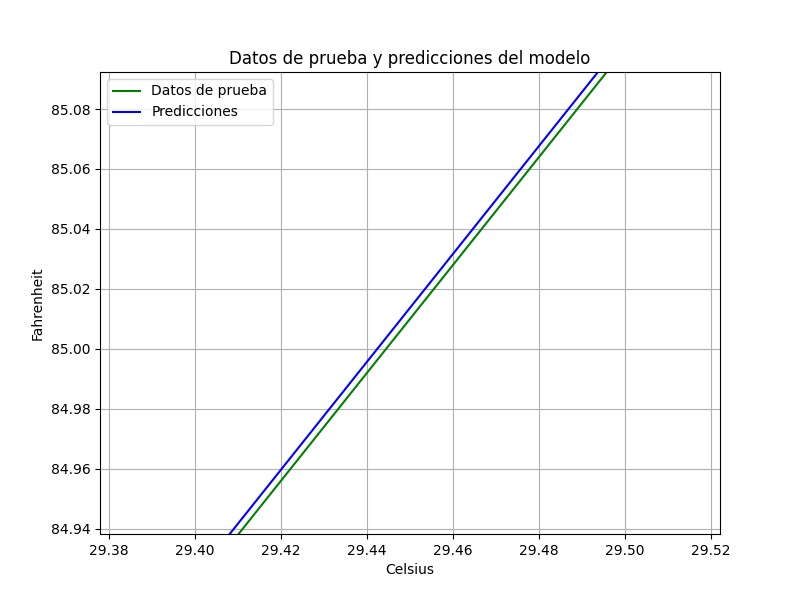
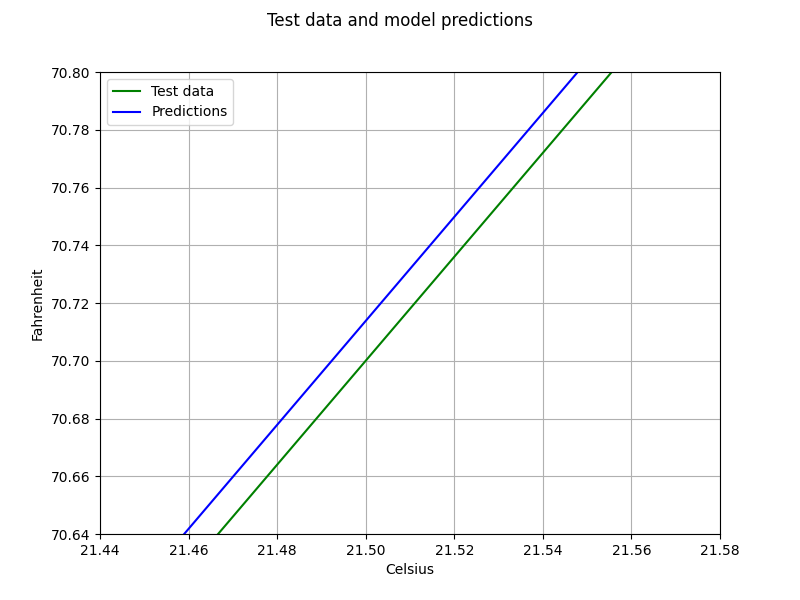
update for regresion

diff --git a/regresion/celsius_fahrenheit/predictions.py b/regresion/celsius_fahrenheit/predictions.py
@@ -18,9 +18,9 @@ predictions = model.predict(x=celsius_test, use_multiprocessing=True)
 
 # ------------ Gráfica de la predicción ------------
 plt.figure(figsize=(8, 6))
-plt.suptitle('Datos de prueba y predicciones del modelo')
-plt.plot(celsius_test, fahrenheit_test, 'g-', label='Datos de prueba')
-plt.plot(celsius_test, predictions, 'b-', label='Predicciones')
+plt.suptitle('Test data and model predictions')
+plt.plot(celsius_test, fahrenheit_test, 'g-', label='Test data')
+plt.plot(celsius_test, predictions, 'b-', label='Predictions')
 plt.xlim(21.44, 21.58)  # Limitamos el eje x
 plt.ylim(70.64, 70.80)  # Limitamos el eje y
 plt.xlabel('Celsius')

diff --git a/regresion/celsius_fahrenheit/training.py b/regresion/celsius_fahrenheit/training.py
@@ -33,7 +33,8 @@ filepath = os.path.join(path, MODEL_NAME)
 model.save(filepath=filepath)
 
 # ------------ Gráfica del entrenamiento ------------
-plt.xlabel('# Epocas')
-plt.ylabel('# Magnitud de pérdida')
+plt.suptitle('Magnitude of loss')
+plt.xlabel('Epochs')
+plt.ylabel('Loss')
 plt.plot(HISTORY.history['loss'])
 plt.show()
